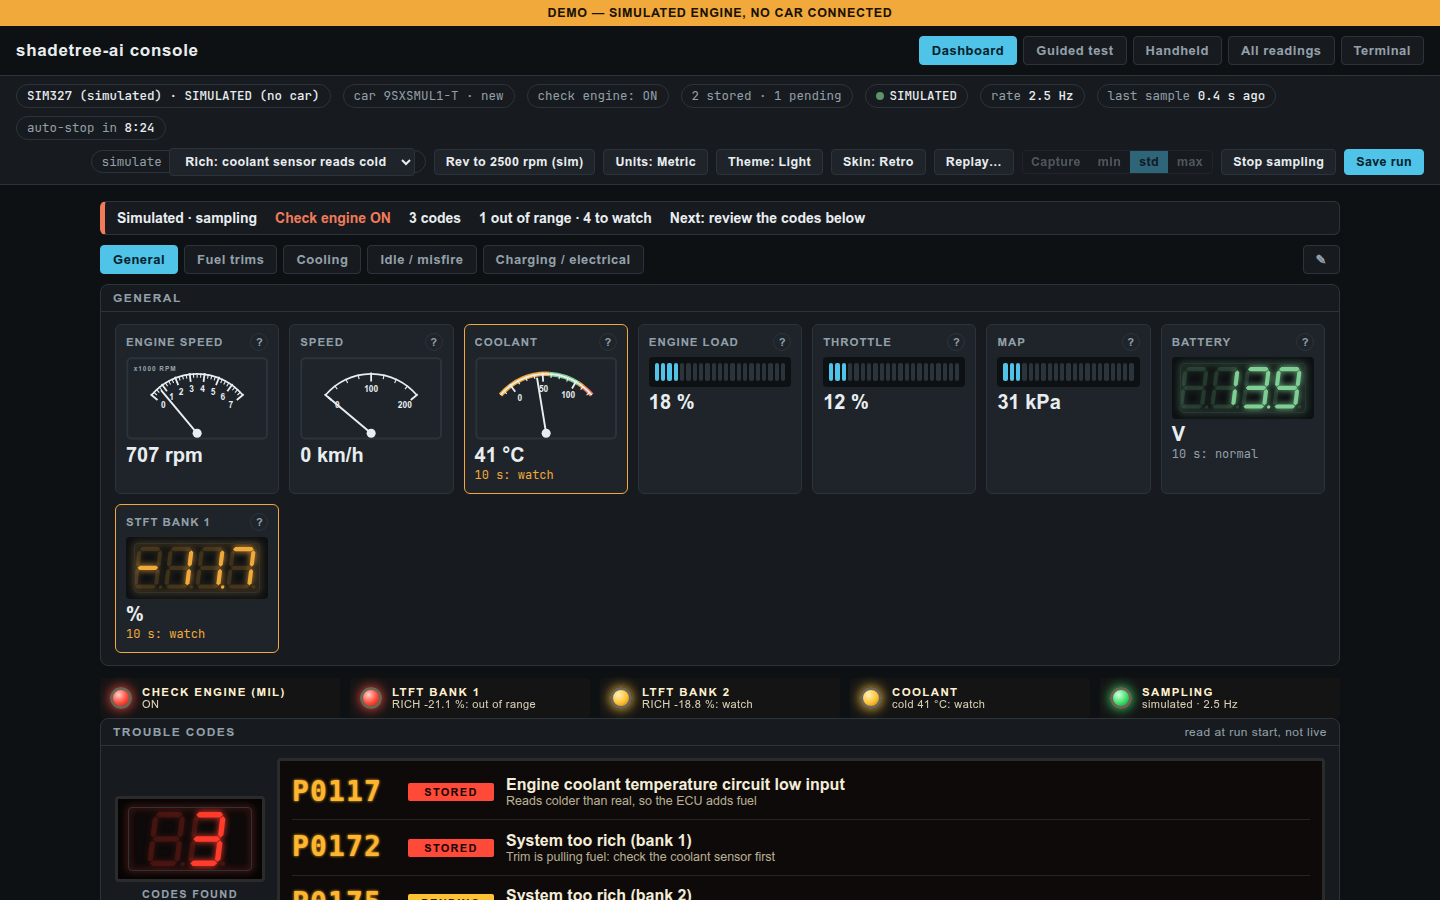
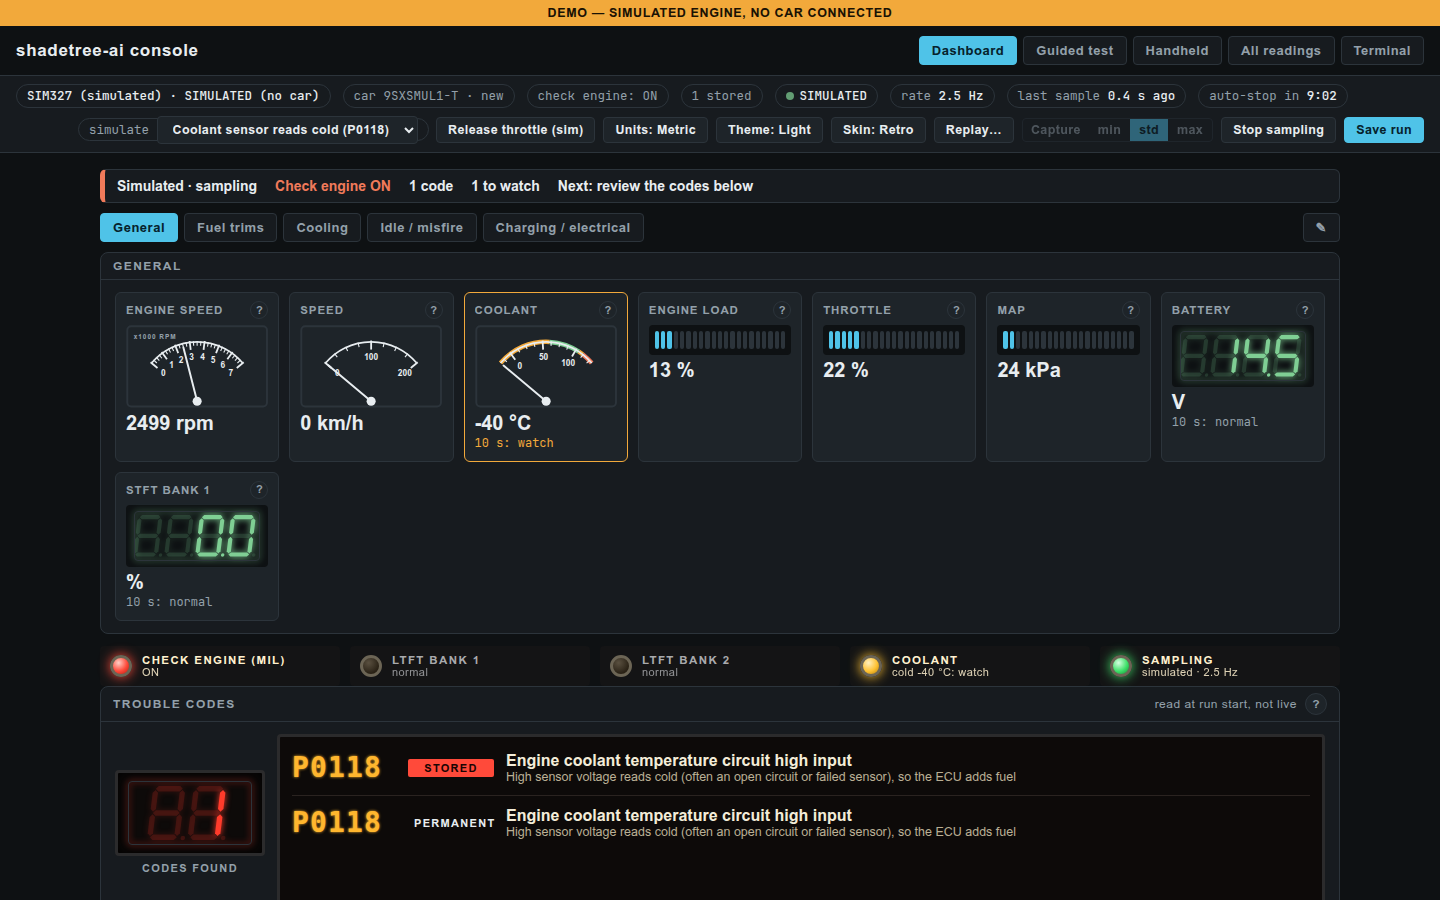
docs: README screenshots retaken from the rebuilt demo (modelled on a 2024 Ridgeline, coolant sensor reading cold) and the new shop-tester Retro cabinet, plus a Retro Fuel trims shot

diff --git a/README.md b/README.md
@@ -6,7 +6,7 @@ shadetree-ai is an MCP server that lets Claude read your car's trouble codes, fr
 
 **Claude is optional.** The dashboard and the command-line `scan` work standalone and make no AI calls: nothing in the program contacts Anthropic or any other AI service, and the plain-words code meanings are fixed text written ahead of time. There is one optional internet call, and only when you press its button: the NHTSA model lookup for a new car, which sends only the vehicle key characters (make, model and year codes; never the serial) and involves no AI. Claude is an extra layer on top, through the MCP server, if you want it.
 
-![The live console's Dashboard on the simulated car: gauges, warning lamps and three trouble codes with plain-words meanings](docs/img/dashboard.png)
+![The live console's Dashboard on the simulated car: gauges, warning lamps and a trouble code with its plain-words meaning](docs/img/dashboard.png)
 
 ## Features
 
@@ -20,16 +20,16 @@ shadetree-ai is an MCP server that lets Claude read your car's trouble codes, fr
 
 | | |
 |---|---|
-| ![Retro skin: the Dashboard drawn as a 1970s engine-analyzer cabinet](docs/img/retro-cabinet.png) | ![Handheld view on a phone](docs/img/handheld.png) |
-| **Retro skin**: the Dashboard as a 1970s engine-analyzer cabinet | **Handheld**: the phone layout, Live and Codes modes |
+| ![Retro skin: a 1970s shop engine tester with a scope, meters and a test knob](docs/img/retro-cabinet.png) | ![Handheld view on a phone](docs/img/handheld.png) |
+| **Retro skin**: a 1970s shop engine tester; the knob under the scope picks the test | **Handheld**: the phone layout, Live and Codes modes |
 | ![Terminal view: the run as command-line text](docs/img/terminal.png) | ![All readings: every reading with min, max, average, std and samples](docs/img/all-readings.png) |
 | **Terminal**: the run as text, with a Copy button | **All readings**: statistics for every reading in the run |
 | ![Light theme Dashboard with trouble codes, freeze frame, readiness monitors and the needs-attention list](docs/img/light-dashboard.png) | ![Guided fuel-trim test: idle and 2500 rpm captures with an engine-speed chart](docs/img/light-guided-test.png) |
 | **Light theme Dashboard**: codes, freeze frame, readiness monitors and what needs attention | **Guided test**: the draft fuel-trim check with timed captures |
-| ![Light theme All readings with Mode 06 on-board test results](docs/img/light-all-readings-mode06.png) | |
-| **All readings and Mode 06**: light theme, with on-board test results against their limits | |
+| ![Light theme All readings with Mode 06 on-board test results](docs/img/light-all-readings-mode06.png) | ![Retro skin with the knob on Fuel trims: trim scope and meters](docs/img/retro-fuel-trims.png) |
+| **All readings and Mode 06**: light theme, with on-board test results against their limits | **Retro, Fuel trims**: the knob swaps the scope and meters to the trim readings |
 
-All screenshots are of the built-in simulated car (the "rich" scenario), not a real vehicle.
+All screenshots are of the built-in simulated car (modelled on a real 2024 Ridgeline at idle, with a coolant sensor reading cold), not a real vehicle.
 
 ## What you need
 
